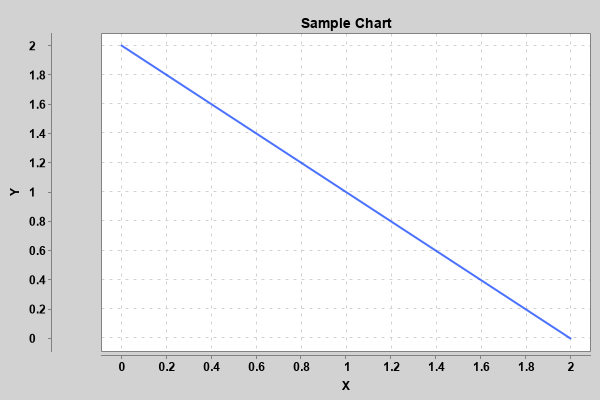
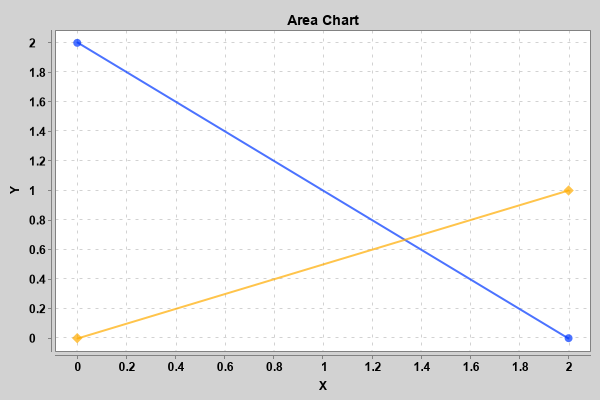
Added Kaczmarz algorithm

diff --git a/Lab6/src/main/kotlin/Main.kt b/Lab6/src/main/kotlin/Main.kt
@@ -1,28 +1,54 @@
+import javafx.scene.chart.XYChart
 import org.knowm.xchart.BitmapEncoder.BitmapFormat
 import org.knowm.xchart.BitmapEncoder
 import org.knowm.xchart.SwingWrapper
 import org.knowm.xchart.QuickChart
+import org.knowm.xchart.internal.chartpart.ChartPart
+import org.knowm.xchart.XYChartBuilder
+
 
 class Main {
     companion object {
         @JvmStatic
         fun main(args: Array<String>) {
+            var phase = 0.0
+
             println("I luv ya vawy much <3 Vawy not like wavy plasters, like very OwO")
 
-            val xData = doubleArrayOf(0.0,  2.0)
-            val yData = doubleArrayOf(2.0, 0.0)
+            val x1Data = doubleArrayOf(2.0, 0.0)
+            val y1Data = doubleArrayOf(0.0, 2.0)
+
+            val x2Data = doubleArrayOf(0.0, 2.0)
+            val y2Data = doubleArrayOf(0.0, 1.0)
 
 // Create Chart
-            val chart = QuickChart.getChart("Sample Chart", "X", "Y", "y(x)", xData, yData)
+            val chart =
+                XYChartBuilder().width(600).height(400).title("Area Chart").xAxisTitle("X").yAxisTitle("Y").build()
 
-// Show it
-            SwingWrapper(chart).displayChart()
+            chart.addSeries(
+                "f1(x)",
+                x1Data, y1Data
+            )
 
-// Save it
-            BitmapEncoder.saveBitmap(chart, "./Sample_Chart", BitmapFormat.PNG)
+            chart.addSeries(
+                "f2(x)",
+                x2Data, y2Data
+            )
 
-// or save it in high-res
-            BitmapEncoder.saveBitmapWithDPI(chart, "./Sample_Chart_300_DPI", BitmapFormat.PNG, 300)
+            val sw = SwingWrapper(chart)
+
+            sw.displayChart()
+
+            val method = KaczmarzMethod(
+                Vector2D(x1Data[0], y1Data[0]),
+                Vector2D(x1Data[1], y1Data[1]),
+                Vector2D(x2Data[0], y2Data[0]),
+                Vector2D(x2Data[1], y2Data[1]),
+                Vector2D(0.5, 0.5),
+                0.00001,
+                sw, chart
+            )
+            method.getIntersection()
         }
     }
 

diff --git a/Lab6/src/main/kotlin/KaczmarzMethod.kt b/Lab6/src/main/kotlin/KaczmarzMethod.kt
@@ -1,14 +1,58 @@
+import org.knowm.xchart.SwingWrapper
+import org.knowm.xchart.XYChart
+import kotlin.math.atan2
+
 //a and b - 2d points on line
 //p - 2d point
-class KaczmarzMethod(val a: Vector2D, val b: Vector2D, val p: Vector2D, val e: Double) {
+class KaczmarzMethod(
+    val a1: Vector2D,
+    val b1: Vector2D,
+    val a2: Vector2D,
+    val b2: Vector2D,
+    val p: Vector2D,
+    val e: Double,
+    val sw: SwingWrapper<XYChart>,
+    private val chart: XYChart
+) {
+    val max = 100
+
     fun getIntersection(): Vector2D? {
         var prevX: Vector2D
         var x = p
+        var i = 0
+        var a: Vector2D
+        var b: Vector2D
+        chart.addSeries("chart", doubleArrayOf(p[0]), doubleArrayOf(p[1]), null)
+
         do {
             prevX = x
-            x = a + dot(p - a, b - a) / dot(b - a, b - a) * (b - a)
-        } while (norm(prevX, x) > e)
-        return null
+            if (i % 2 == 0) {
+                a = a1
+                b = b1
+            } else {
+                a = a2
+                b = b2
+            }
+
+            val ab = b - a
+            val ax = x - a
+
+            x = a + (dot(ax, ab) / dot(ab, ab)) * (ab)
+            println(x.x)
+            println(x.y)
+            println()
+
+            Thread.sleep(1000)
+
+            javax.swing.SwingUtilities.invokeLater {
+                chart.updateXYSeries("chart", doubleArrayOf(x[0]), doubleArrayOf(x[1]), null)
+                sw.repaintChart()
+            }
+            i++
+        } while (norm(prevX, x) > e && i < max)
+        if (norm(prevX, x) > e)
+            return null
+        return x
     }
 
     private fun norm(a: Vector2D, b: Vector2D): Double {

diff --git a/Lab6/src/main/kotlin/Vector3D.kt b/Lab6/src/main/kotlin/Vector3D.kt
@@ -1,10 +1,28 @@
-class Vector2D(val x: Double, val y: Double) {
+class Vector2D {
     val size = 2
-    private val array = DoubleArray(size)
+    var x: Double
+        get() {
+            return array[0]
+        }
+        set(value) {
+            array[0] = value
+        }
+    var y: Double
+        get() {
+            return array[1]
+        }
+        set(value) {
+            array[1] = value
+        }
+    private var array = DoubleArray(size)
 
-    init {
+    constructor(x: Double, y: Double) {
         array[0] = x
         array[1] = y
+    }
+
+    constructor(array: DoubleArray) {
+        this.array = array.clone()
     }
 
     operator fun plus(vector: Vector2D): Vector2D {
@@ -29,14 +47,7 @@ class Vector2D(val x: Double, val y: Double) {
         array[index] = value
     }
 
-    operator fun times(value: Double): Vector2D {
-        var result = Vector2D(0.0, 0.0)
-        for (i in 0 until result.size) {
-            result[i] = this[i] * value
-        }
-        return result
-    }
-
+    operator fun times(value: Double): Vector2D = Vector2D(this.x * value, this.y * value)
 }
 
 fun dot(vector1: Vector2D, vector2: Vector2D): Double {
